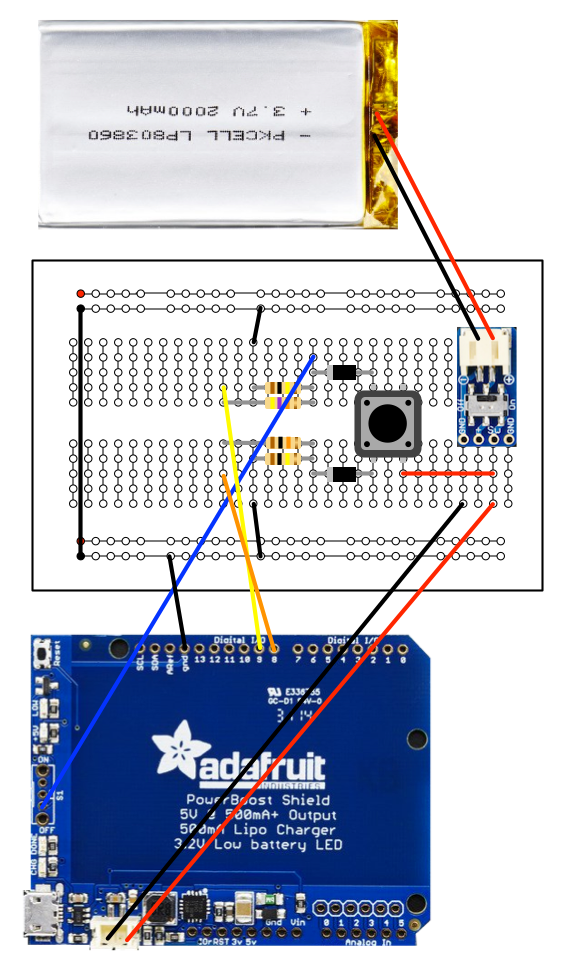
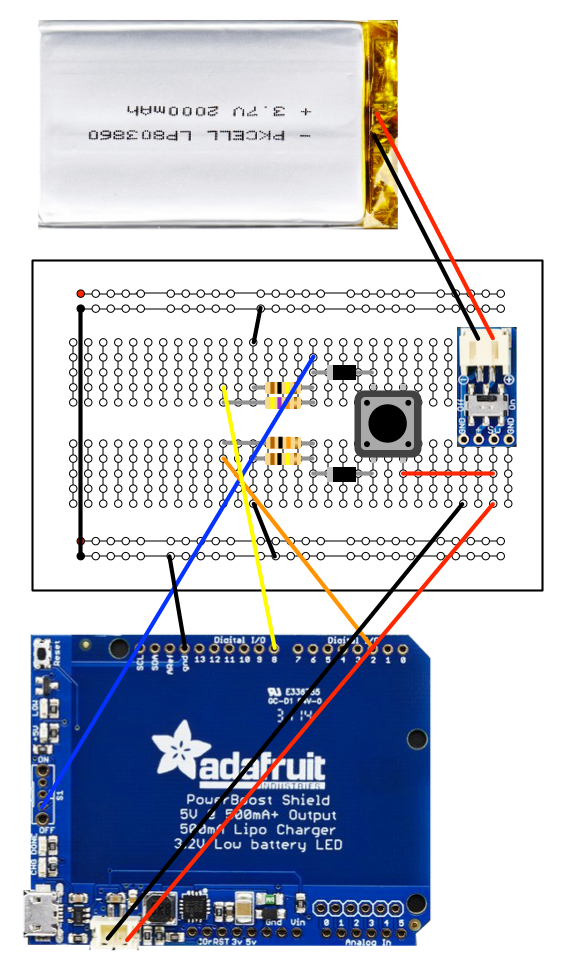
update images for the interrupt circuit

diff --git a/PowerOnPowerOff.md b/PowerOnPowerOff.md
@@ -10,6 +10,10 @@ the Arduino shuts down.
 
 With the more complex versions of this, the system logs a shutdown message, etc., before actually shutting down.
 
+**NOTE** There are two variants of the software used with this circuit. The first checks for a button press
+every cycle of the *loop()* function, whereas the second uses an **Interrupt** in cases where the loop cycle time
+is more than about a second. I'll describe the basic version first and then discuss the changes needed for the interrupt version.
+
 ###How this works
 
 The PowerBoost has an **Enable pin** which is held HIGH by default. In this state, the PowerBoost is enabled and supplies power
@@ -119,6 +123,31 @@ void arduinoPowerMonitor() {
 
 **Note** you can use different Arduino pins but you might want to avoid pins 10-13 as these are used in the
 Serial Peripheral Interface (SPI).
+
+
+## Power Off using an Interrupt
+
+The software component of the Power Off circuit I just described works fine if the cycle time of the *loop()*
+function is short - say, around 1 second. But you might want a much longer cycle time if, for example, you
+want to measure a sensor value every 30 minutes by adding a long *delay()* to the loop. It would be nearly
+impossible to see the pushbutton press.
+
+In this situation we need to **interrupt** the program flow when the button is pressed.
+
+There are several ways to use **Interrupts** on the Arduino. I'm using a simple **External Interrupt* here.
+
+**NOTE** As well as changing the code, you need to switch the Power Off wire from **Pin 8** to **Pin 2**.
+
+
+
+
+
+
+*to be added*
+
+##Circuit using a PowerBoost Breakout Board
+
+*to be added*
 
 &nbsp;
 ##[Back to the README](README.md)

diff --git a/README.md b/README.md
@@ -39,6 +39,8 @@ The system provides several functions:
 
 I will introduce each of these in turn, but the common thread to all of them is combination of the Adafruit PowerBoost and the Arduino.
 
+With each of these you add and customize two functions, *arduinoPowerSetup() and arduinoPowerMonitor()*, to the standard *setup() and loop()*
+functions in your code.
 
 ## Adafruit PowerBoost Shield
 
@@ -68,8 +70,6 @@ and runs the program that you have loaded onto it.
 
 When you press the button again, and release it, the Arduino disables the PowerBoost and, because it is no longer supplying power,
 the Arduino shuts down.
-
-With the more complex versions of this, the system logs a shutdown message, etc., before actually shutting down.
 
 **Please read [This Page](PowerOnPowerOff.md) for the details.**
 
